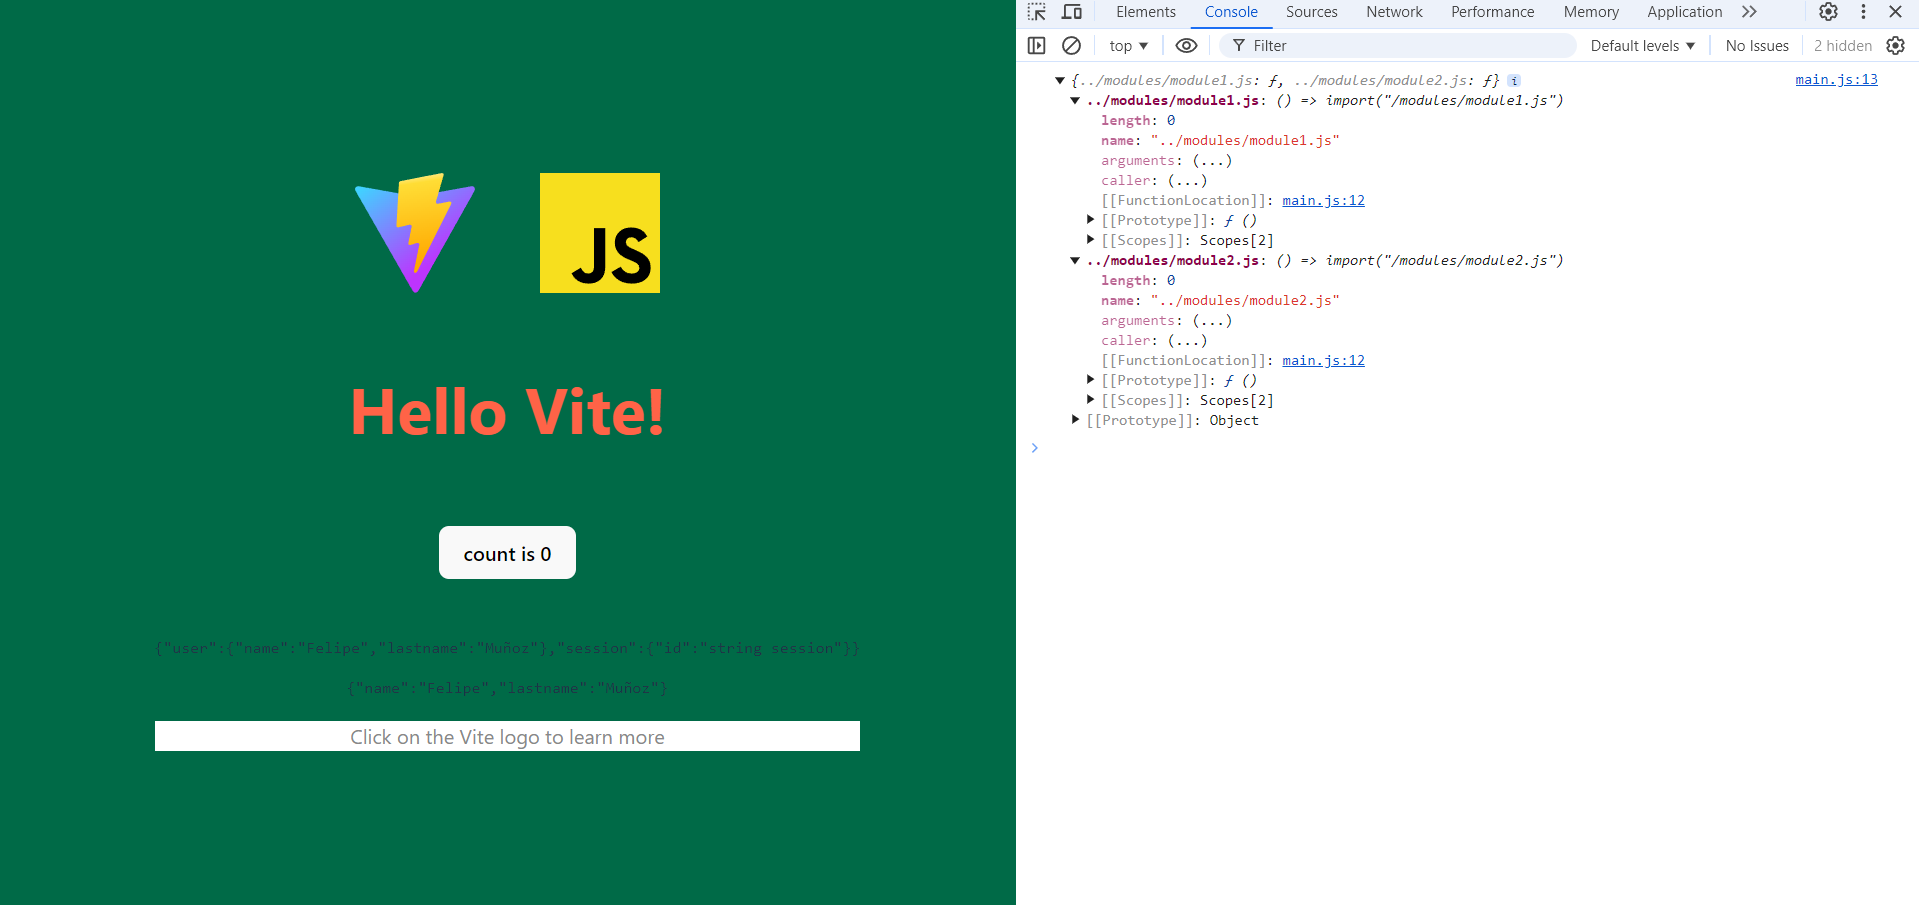
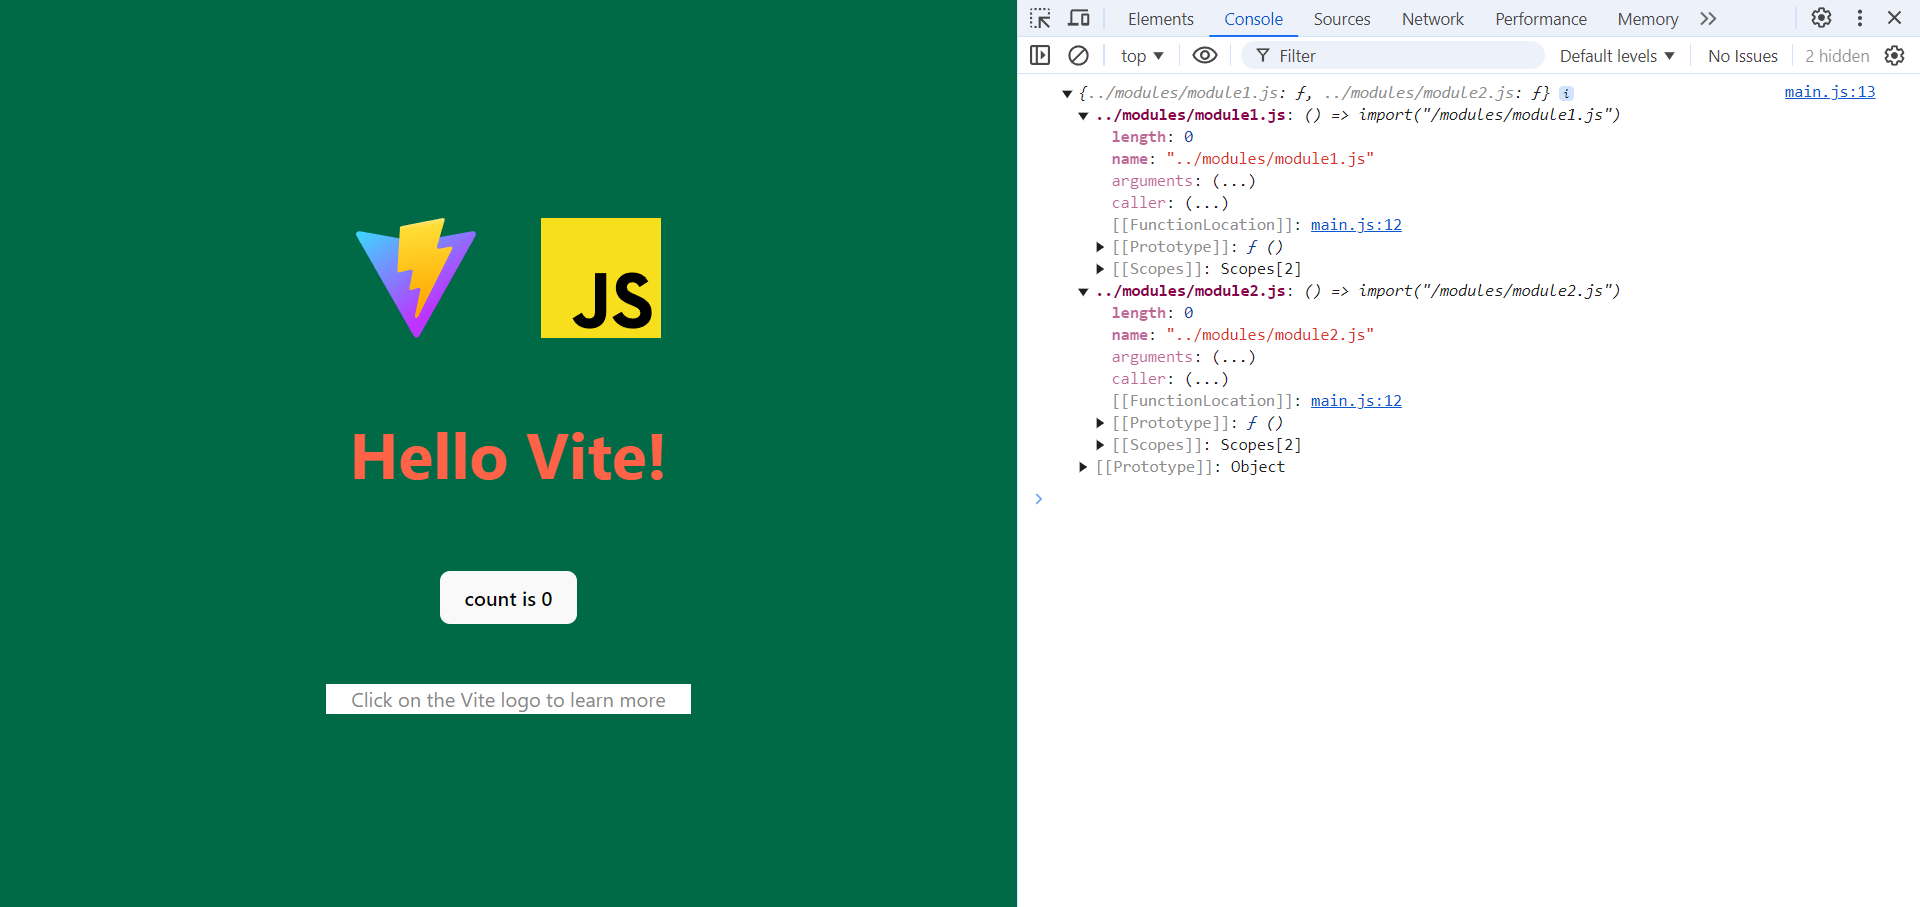
Clase 12 completada.

diff --git a/vite-demo/src/main.js b/vite-demo/src/main.js
@@ -9,16 +9,22 @@ import data from './data.json';
 
 import img from './gatito.jpg';
 
-const modules = import.meta.glob('../modules/*.js')
-console.log(modules)
+// const modules = import.meta.glob('../modules/*.js')
+// console.log(modules)
+
 // console.log(buttonStyle);
 
+import suma from './suma.ts';
+console.log(`suma 2+3 = ${suma(2, 3)}`)
+
+/*
 for (const path in modules) {
   modules[path]()
   .then((module) => {
     module.load()
   })
 }
+*/
 
 document.querySelector('#app').innerHTML = `
   <div>
@@ -32,10 +38,6 @@ document.querySelector('#app').innerHTML = `
     <div class="card">
       <button id="counter" type="button"></button>
     </div>
-    <div>
-      <pre>${JSON.stringify(data)}</pre>
-      <pre>${JSON.stringify(data.user)}</pre>
-    </div>
     <p class="read-the-docs">
       Click on the Vite logo to learn more
     </p>
@@ -45,6 +47,10 @@ document.querySelector('#app').innerHTML = `
  * Etiquetas quitadas:
  * <img id="my-img"/>
  * <button id="btn" type="button">Haz click aquí</button>
+ * <div>
+ *   <pre>${JSON.stringify(data)}</pre>
+ *   <pre>${JSON.stringify(data.user)}</pre>
+ * </div>
  */
 
 // document.getElementById('btn').className = buttonStyle.btn;

diff --git a/vite-demo/src/suma.ts b/vite-demo/src/suma.ts
@@ -1,0 +1,3 @@
+export default function suma(a: number, b: number): number {
+    return a + b
+}

diff --git a/apuntesDelCurso/readme.md b/apuntesDelCurso/readme.md
@@ -12,6 +12,7 @@
 * [Clase 09 - Importar imágenes](#id9)
 * [Clase 10 - Importar JSON](#id10)
 * [Clase 11 - Importación global](#id11)
+* [Clase 12 - Uso con TypeScript](#id12)
 
 ## ¿Qué es Vite? [1/19]<a name="id1"></a>
 Vite es una herramienta de **tercera generación** para el desarrollo de frontend, la cual recolecta todas las tecnologías que se utilizan en el estándar de desarrollo web moderno, como por ejemplo webpack, create-react-app, etc.
@@ -584,3 +585,53 @@ for (const path in modules) {
 
 Si el código se escribió de forma correcta, en la consola del navegador se deberían ver los mensajes escritos en cada modulo.
 ![resultados en la consola](img/clase11-2.png)
+
+## Uso con TypeScript [12/19]<a name="id12"></a>
+Ahora vamos a ver como Vite detecta y procesa los archivos de TypeScript sin la necesidad de tener que hacer una configuración complicada, aunque si nosotros lo deseamos podemos cambiar esa configuración por defecto y que TypeScript se comporte como nosotros queramos.
+
+### Usando TypeScript con Vite
+Para comenzar a utilizar TypeScript en este proyecto literalmente no tenemos que hacer nada. 
+Se crea un nuevo archivo que se llamara **suma.ts**, dentro se crea una función para sumar dos valores.
+Se utiliza el sistema de tipos de typescript para definir que tipo de dato tendrá cada variable, asi como el valor del retorno.
+
+```javascript
+export default function suma(a: number, b: number): number {
+    return a + b
+}
+```
+
+Ahora dentro del archivo **main.js** se puede importar la nueva función y Vite detectara automáticamente que es un archivo de TypeScript, además se encargara de procesarlo. 
+Se utiliza la consola para ejecutar la función, se le pasan 2 parámetros y si el archivo se importo correctamente, la consola mostrara el resultado de la suma.
+```javascript
+import suma from './suma.ts';
+
+console.log(`suma 2+3 = ${suma(2, 3)}`);
+```
+
+![suma en la consola](img/clase12-1.png)
+
+### Configuración personalizada de TS
+Si queremos cambiar la configuración por defecto de Vite para utilizar TypeScript con una configuración propia.
+Se crea un nuevo archivo en la carpeta raíz llamado **tsconfig.json**.
+Dentro de este archivo se agrega una configuración de ejemplo. Se crea un objeto y dentro se declara la propiedad *compilerOptions* que es una opción que permite personalizar la construcción del proyecto.
+Se configura el *target*, es decir, para que version especifica de javascript se generara la salida en código.
+De esta manera se puede generar el código dependiendo de que version de javascript desea utilizar el desarrollador, en este caso, la version *ECMAScript 2015*.
+```json
+{
+	"compilerOptions": {
+		"target": "ES2015"
+	}
+}
+```
+> [!IMPORTANT]
+> Si se utiliza la opción de personalizar, cuando se ejecute el código, se recomienda limpiar la cache del navegador ya que puede que los cambios no se refresquen solo con actualizar el navegador.
+
+Para probar si funciono la configuración, se ejecuta el comando:
+```npm
+npm run build
+```
+Se creara la carpeta **dist** y si esta ya existe, solo se actualizara su contenido.
+El código en javascript que escribimos manualmente ahora estará transformado a la version definida en la configuración.
+
+Por ultimo si se desea saber mas de como usar un archivo **tsconfig** y sus diferentes opciones, se puede visitar este enlace oficial de la documentación de TypeScript.
+https://www.typescriptlang.org/docs/handbook/tsconfig-json.html
